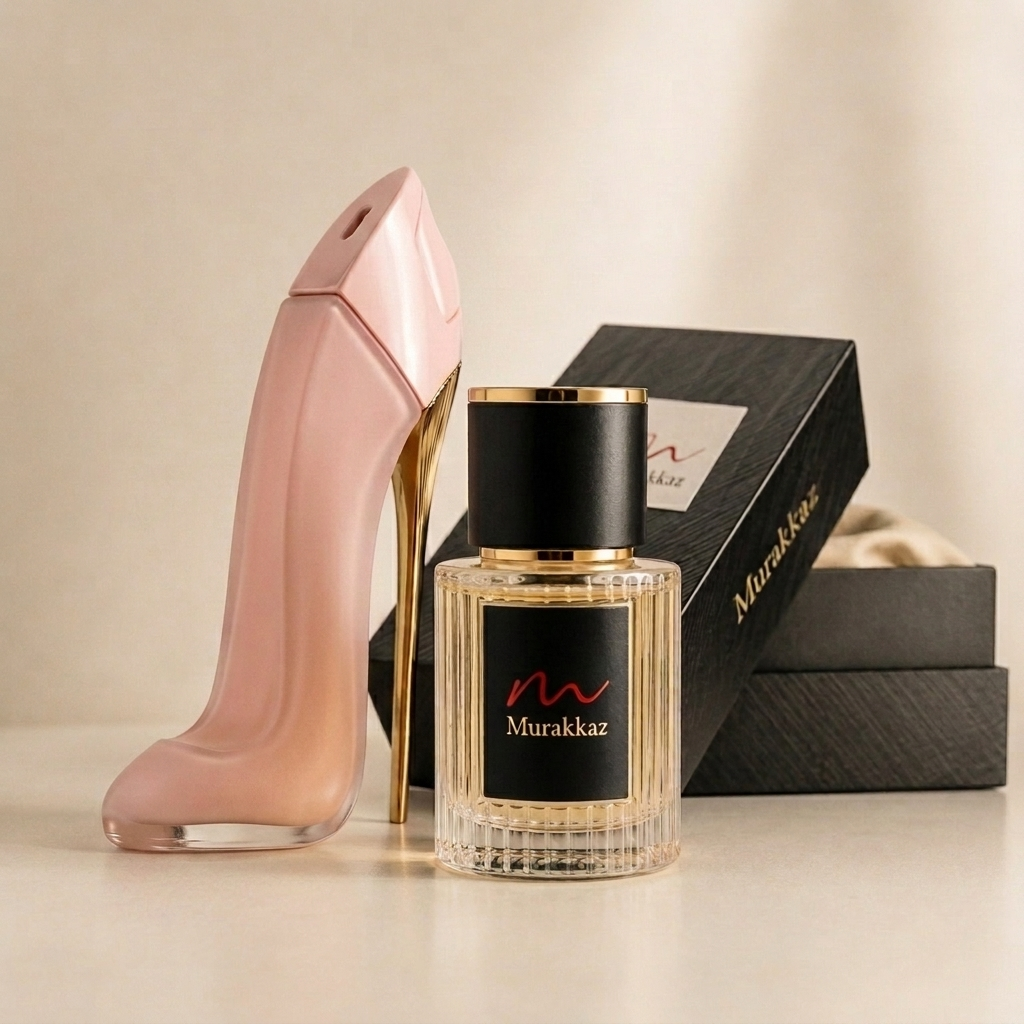
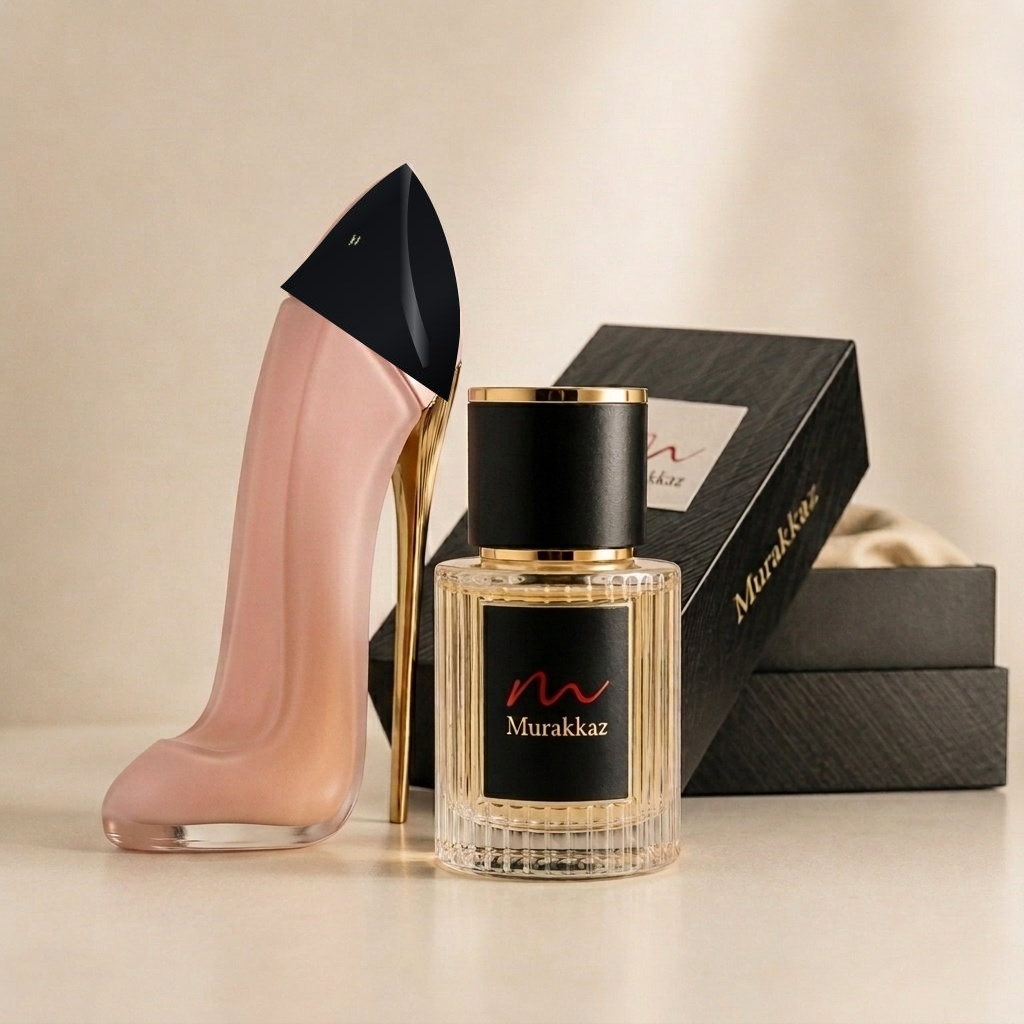
feat(assets): update Good Girl Blush and Terre d'Hermes with authentic bottles and matched warm background

Changed region(s): [[0.2812, 0.1562, 0.4688, 0.4062]]

diff --git a/App/src/app/data/products.ts b/App/src/app/data/products.ts
@@ -5412,7 +5412,7 @@ export const luxuryProducts: Product[] = [
     "description": "An earthy, mineral-rich masterpiece contrasting sparkling grapefruit and citrus with warm flint, oakmoss, and noble woods.",
     "rating": 4.8,
     "reviewCount": 56,
-    "image": "/images/products/terre_d_hermes_parfum_v2.jpg",
+    "image": "/images/products/terre_d_hermes_parfum_v3.jpg",
     "family": "FRESH",
     "gender": "MEN",
     "occasion": "Daily & Executive",
@@ -6049,7 +6049,7 @@ export const luxuryProducts: Product[] = [
     "description": "A charming explosion of romantic florals grounded by sweet vanilla and powdery bitter almond.",
     "rating": 4.8999999999999995,
     "reviewCount": 32,
-    "image": "/images/products/good_girl_blush_v3.jpg",
+    "image": "/images/products/good_girl_blush_v4.jpg",
     "family": "FLORAL",
     "gender": "WOMEN",
     "occasion": "Romantic & Daytime",
@@ -6398,6 +6398,12 @@ export async function fetchLiveProducts(forceRefresh = false): Promise<Product[]
           }
           if (itemSlug === "japanese-cherry-blossom" || (p.name && p.name.toLowerCase().includes("japanese cherry blossom"))) {
             itemImage = "/images/products/japanese_cherry_blossom_v6.jpg";
+          }
+          if (itemSlug === "good-girl-blush" || (p.name && p.name.toLowerCase().includes("good girl blush"))) {
+            itemImage = "/images/products/good_girl_blush_v4.jpg";
+          }
+          if (itemSlug.includes("terre-d-herm") || (p.name && p.name.toLowerCase().includes("terre d'herm"))) {
+            itemImage = "/images/products/terre_d_hermes_parfum_v3.jpg";
           }
 
           const EXCLUSIVE_SET = new Set([
